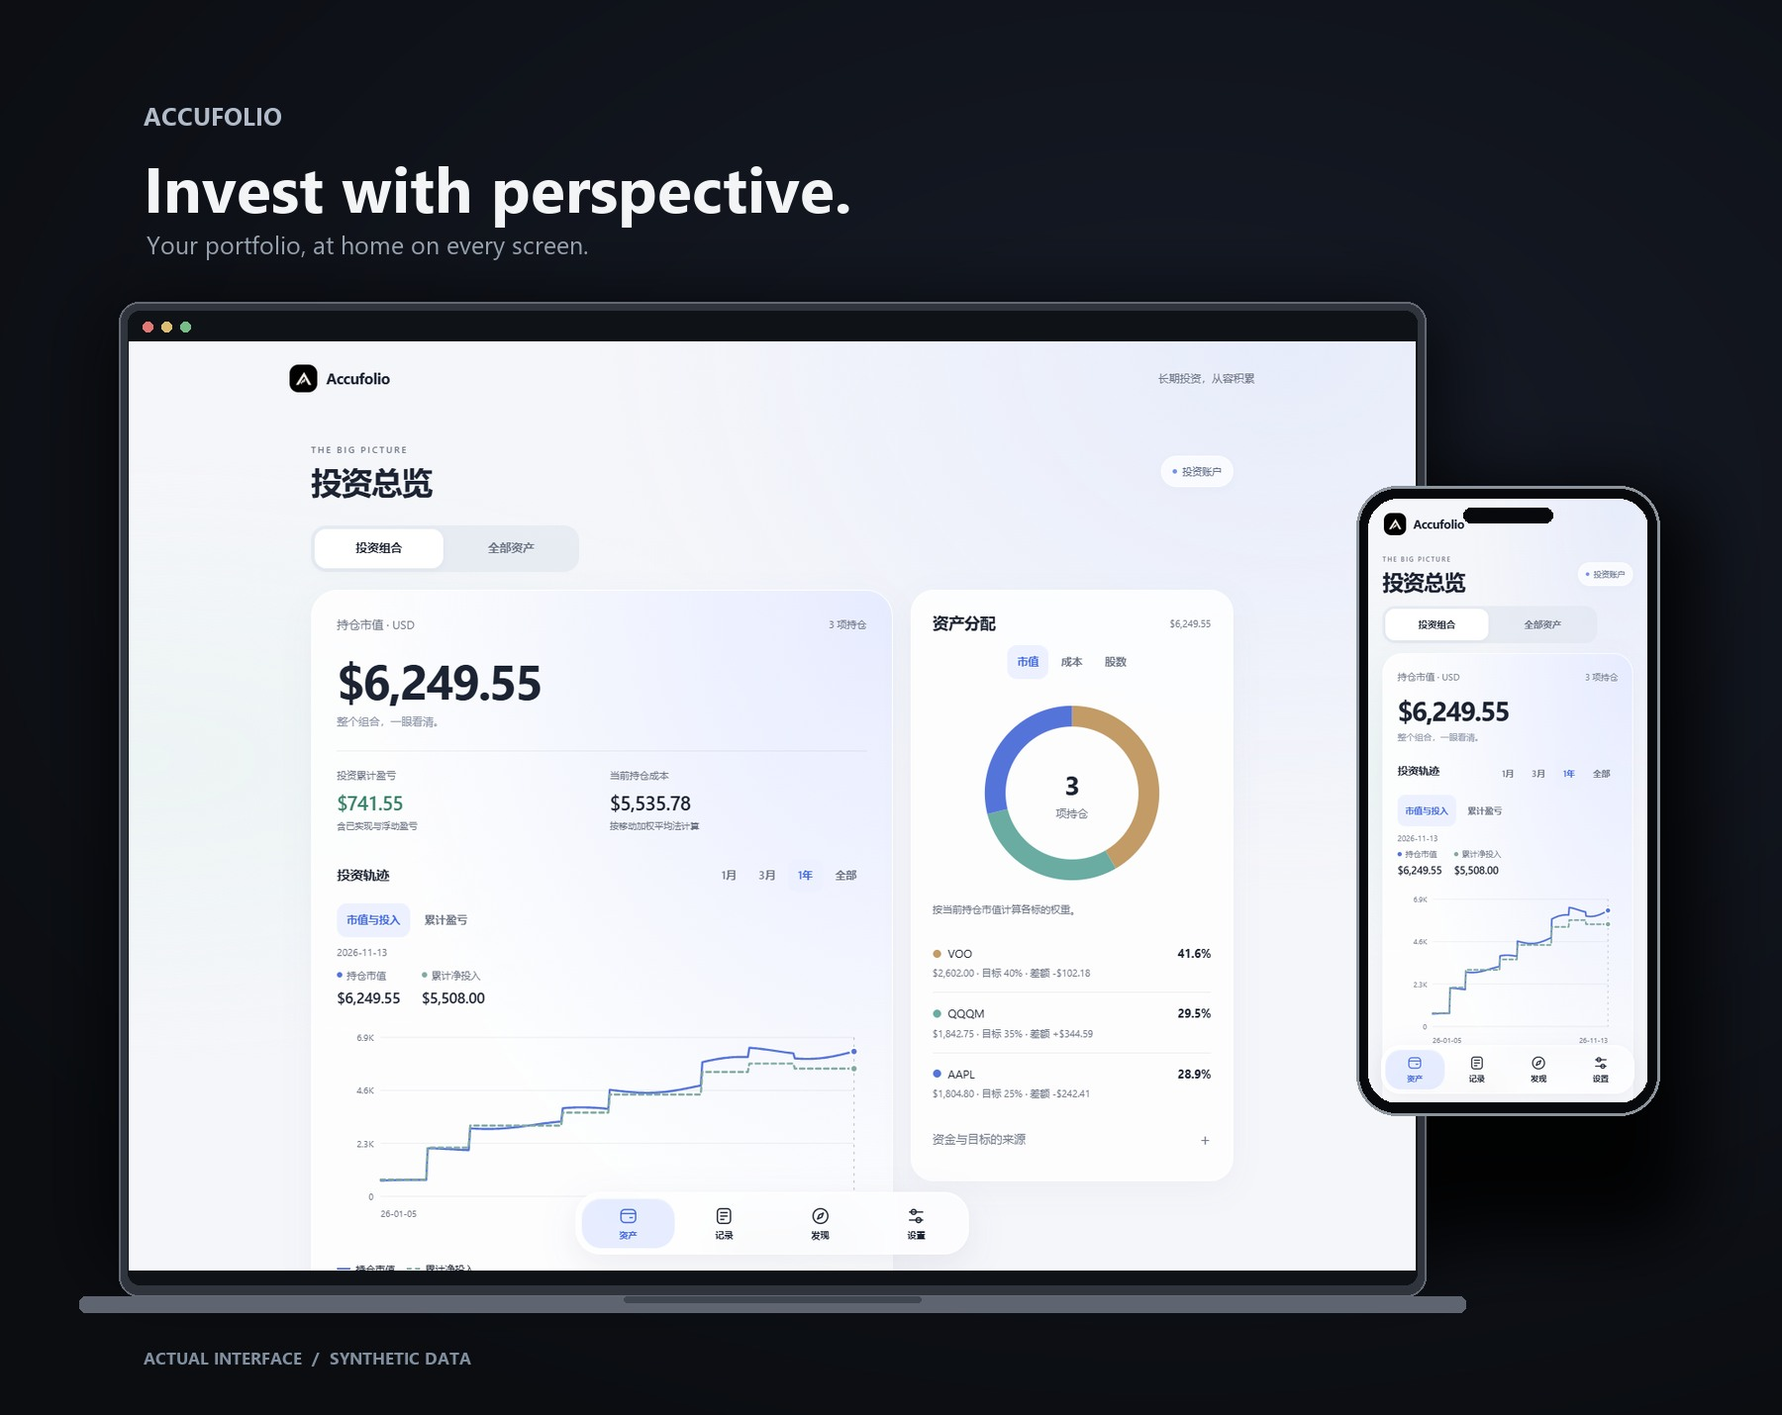
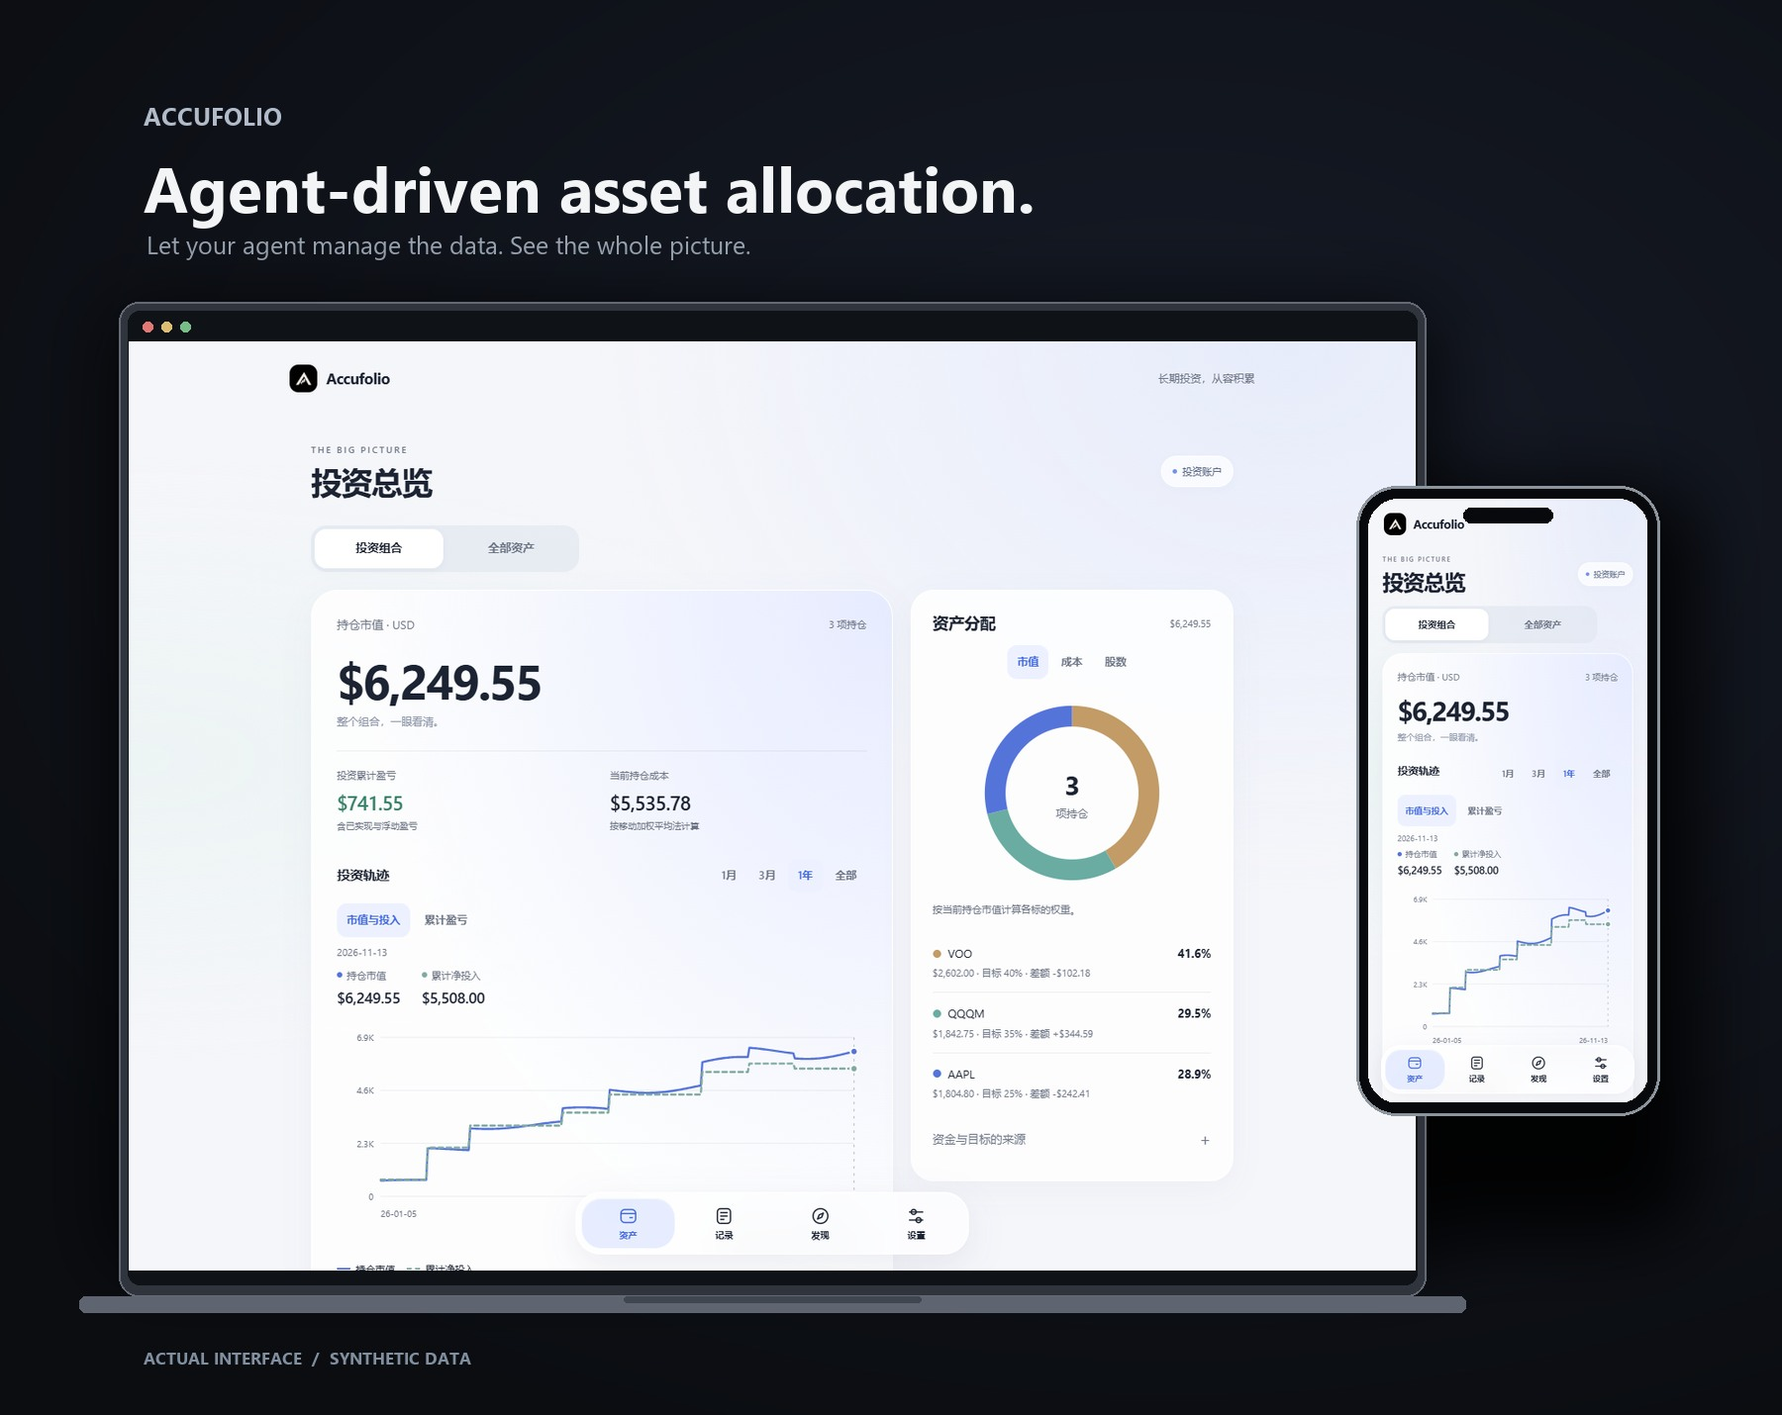
docs: position Accufolio as agent-driven asset allocation [skip ci]

Changed region(s): [[0.0622, 0.1231, 0.5911, 0.1846]]

diff --git a/scripts/create_poster.py b/scripts/create_poster.py
@@ -11,8 +11,8 @@ for y in range(h):
 d=ImageDraw.Draw(img)
 font='C:/Windows/Fonts/segoeui.ttf'; bold='C:/Windows/Fonts/segoeuib.ttf'
 d.text((145,100),'ACCUFOLIO',font=ImageFont.truetype(bold,25),fill='#b1bbca',stroke_width=0)
-d.text((145,145),'Invest with perspective.',font=ImageFont.truetype(bold,64),fill='#f2f4f6')
-d.text((148,230),'Your portfolio, at home on every screen.',font=ImageFont.truetype(font,25),fill='#9da8b5')
+d.text((145,145),'Agent-driven asset allocation.',font=ImageFont.truetype(bold,64),fill='#f2f4f6')
+d.text((148,230),'Let your agent manage the data. See the whole picture.',font=ImageFont.truetype(font,25),fill='#9da8b5')
 shadow=Image.new('RGBA',(w,h));sd=ImageDraw.Draw(shadow);sd.rounded_rectangle((112,310,1450,1282),radius=28,fill=(0,0,0,185));sd.rounded_rectangle((1370,495,1710,1250),radius=55,fill=(0,0,0,230));img=Image.alpha_composite(img.convert('RGBA'),shadow.filter(ImageFilter.GaussianBlur(36)));d=ImageDraw.Draw(img)
 # Laptop-like browser frame around an unmodified application screenshot.
 x,y=120,305; sw=1300; sh=round(sw*1040/1440); d.rounded_rectangle((x,y,x+sw+20,y+sh+66),radius=20,fill='#30353d',outline='#636a74',width=2);d.rounded_rectangle((x+9,y+9,x+sw+11,y+sh+54),radius=12,fill='#0f1217');d.rectangle((x+10,y+40,x+sw+10,y+40+sh),fill='#101217');

diff --git a/README.en.md b/README.en.md
@@ -1,26 +1,28 @@
 <div align="center">
   <img src="assets/logo.png" alt="Accufolio logo" width="112">
   <h1>Accufolio</h1>
-  <p><strong>Invest for the long term, one contribution at a time.</strong></p>
-  <p>A self-hosted investment dashboard, with data maintained by AI and a clear view of assets, allocation, and progress.</p>
+  <p><strong>Agent-driven asset allocation.</strong></p>
+  <p>A self-hosted dashboard. Let your agent maintain the data; see your allocation clearly.</p>
   <p>
     <a href="https://github.com/zuquanzhi/Accufolio/actions/workflows/ci.yml"><img src="https://github.com/zuquanzhi/Accufolio/actions/workflows/ci.yml/badge.svg" alt="Build and test status"></a>
     <a href="https://github.com/zuquanzhi/Accufolio/releases/latest"><img src="https://img.shields.io/github/v/release/zuquanzhi/Accufolio" alt="Latest release"></a>
     <a href="LICENSE"><img src="https://img.shields.io/badge/license-Apache--2.0-blue.svg" alt="Apache 2.0 license"></a>
   </p>
-  <p><a href="#quick-start">Quick start</a> · <a href="#mobile-access">Mobile access</a> · <a href="https://github.com/zuquanzhi/Accufolio/releases">Releases</a> · <a href="README.md">简体中文</a></p>
+  <p><a href="#how-it-works">How it works</a> · <a href="#quick-start">Quick start</a> · <a href="guides/使用与部署.md">Deployment & MCP guide</a> · <a href="https://github.com/zuquanzhi/Accufolio/releases">Releases</a> · <a href="README.md">简体中文</a></p>
 </div>
 
 ---
 
-Accufolio brings holdings across multiple securities, investment and profit curves, allocation targets, and strategy backtests into one dashboard. AI maintains transactions and allocation data through local MCP; the app provides a read-only view for analysis. Your data stays in your own SQLite database, accessible from a browser, a PWA, or the Android client.
+Accufolio is a single-user, self-hosted asset allocation dashboard. Give your agent completed transactions, dated fund balances, and allocation targets. The agent maintains those records through MCP; Accufolio turns them into holding breakdowns, target gaps, and historical curves.
+
+Asset and transaction data is read-only in Web, PWA, and Android, backed by your own SQLite database. Accufolio provides MCP tools and visualization. You choose and run the agent; the app does not include an AI model or a chat service.
 
 ## Preview
 
 ![Accufolio desktop and mobile preview](assets/previews/product-poster.jpg)
 
 <details>
-<summary>More views: backtesting, monitoring, mobile trades, and Android welcome screen</summary>
+<summary>More views: allocation, strategy curves, monitoring, and mobile access</summary>
 <br>
 <img src="assets/previews/mobile-pages.jpg" alt="Four app routes" width="1000">
 <img src="assets/previews/mobile-allocation.png" alt="Total assets allocation and target gaps" width="280">
@@ -33,23 +35,51 @@ Accufolio brings holdings across multiple securities, investment and profit curv
 
 The device frames are illustrative; the screenshots show the running application with synthetic transactions and prices in an isolated database. The mobile images show the responsive web interface; the Android client displays the same interface after connecting to a server; the welcome screen is captured on an Android 15 emulator.
 
-## Features
+## Allocation at a glance
 
-- **Portfolio overview:** aggregate market value, remaining cost, realized and unrealized gains, net investment, and XIRR across securities. View allocation by market value, cost, or share count.
-- **Historical perspective:** explore holdings value, cumulative net investment, and cumulative profit over one month, three months, one year, or all records. Read individual dates using touch or keyboard controls.
-- **Two allocation views:** the investment portfolio covers stock holdings; total assets add an independently reported other-funds balance and its as-of date. Compare market-value weights with separate allocation targets.
-- **Strategy comparisons:** fetch cached daily prices and compare four strategy curves against cumulative contributions. Manual price input remains available; source and adjustment details are visible.
-- **Price monitoring:** L1/L2/L3 movement alerts and a calm signal based on aligned stock and VIX closes. Missing or stale signal data is explicitly skipped.
-- **External alerts:** optional JSON Webhooks with a persistent outbox, retries, and delivery status.
-- **AI-maintained data:** MCP tools manage buys, sells, other funds, and targets. Write access requires explicit configuration and supports previews, audit history, and retry-safe changes.
-- **Multiple devices:** access the same dashboard from desktop browsers, a PWA, or Android. Database backups and JSON exports are available; older on-device records remain available for read-only viewing and export.
+- **Agent-maintained assets:** update buys, sells, other funds, and targets through MCP. Trade creation, editing, deletion, and allocation replacement support previews, explicit write permissions, audit history, and retry protection.
+- **Current distribution:** aggregate market value, cost, realized and unrealized gains, net investment, and XIRR. Explore holdings by market value, remaining cost, or share count.
+- **Target comparison:** maintain separate targets for the investment portfolio and total assets. See current market-value weights and monetary gaps.
+- **Long-term perspective:** switch periods on holdings-value, net-investment, and cumulative-profit curves. Touch and keyboard controls expose individual dates; missing observations remain gaps.
+- **Strategy comparisons:** fetch cached daily prices and compare four contribution strategies against a cumulative-investment baseline, with expandable ending results.
+- **Ongoing monitoring:** L1/L2/L3 movement alerts, a calm signal based on stock and VIX closes, and optional Webhook delivery with retries.
 
-## What the numbers mean
+## How it works
+
+```text
+Your transactions, balances, and targets
+                 │
+                 ▼
+       Your agent / MCP client
+                 │ Local stdio · permission-controlled access
+                 ▼
+          Accufolio MCP ──→ SQLite database
+                                  │
+     Quotes & daily prices ──→ FastAPI analytics + Web
+                                  │ HTTPS
+                                  ▼
+                         Web · PWA · Android
+                     Read-only assets and records
+```
+
+The agent reads existing records and configuration before preparing changes. Trade creation, editing, deletion, and allocation replacement default to `dry_run=true`. Submitting these operations requires `ACCUFOLIO_MCP_SCOPE=write` on the MCP process and `dry_run=false`. Allocation updates also check the current revision to avoid overwriting a newer change.
+
+Once MCP is connected, you can give your agent completed transactions, balance reports, and targets like these:
+
+> Record a completed trade: I bought 2 shares of QQQM on 2026-11-12 at 280 USD per share. Show me a preview before committing.
+
+> My other-funds balance was 5,000 USD as of 2026-11-14. Read the current allocation plan, preserve both target sets and its note, and preview a replacement of only the balance and date.
+
+> Preview these targets: QQQM 60% and SPY 40% for my investment portfolio; QQQM 45%, SPY 30%, and other funds 25% for total assets. Preserve the reported balance, date, and note, then wait for confirmation before committing.
+
+Balances come from information you provide and must be explicitly updated by the agent. Buys and sells never automatically change other funds; salary, spending, and transfers require a fresh balance report. MCP currently runs over **local stdio with access to the same database**, not a remote MCP endpoint. The phone connects to the Web service. See the [MCP setup guide](guides/使用与部署.md#mcp-接入) for configuration (Chinese).
+
+## Views and calculations
 
 | View | Data and purpose |
 |---|---|
 | **Investment portfolio** | Current stock holdings, weighted by market value, remaining cost, or share count. Share weights compare quantities, not capital allocation. |
-| **Total assets** | Current stock market value plus an independently reported other-funds balance, with its as-of date. Cash is never inferred from trades. |
+| **Total assets** | Current stock market value plus an independently reported USD other-funds balance, with its as-of date. An unreported balance is unknown, not zero. |
 | **Allocation targets** | Separate targets for the portfolio and total assets. Gaps use market value only; they do not create or execute orders. |
 | **History** | Stock holdings reconstructed from transactions and unadjusted closing prices. Missing values remain gaps; today's other-funds balance is not inserted into history. This is not account NAV. |
 
@@ -57,7 +87,7 @@ Net investment equals cumulative purchases minus sale proceeds. Cumulative profi
 
 ## Quick start
 
-Install [Docker and Docker Compose](https://docs.docker.com/get-docker/), then run:
+Deploy the dashboard, then connect an agent that can access the same database. Start the service with [Docker and Docker Compose](https://docs.docker.com/get-docker/):
 
 ```bash
 git clone https://github.com/zuquanzhi/Accufolio.git
@@ -67,19 +97,15 @@ cp .env.example .env
 docker compose up -d --build
 ```
 
-Visit <http://127.0.0.1:8000> and sign in with username `admin` and the password you set. There is no default password. The container binds to localhost by default and stores the database in a Docker volume.
+Visit <http://127.0.0.1:8000> and sign in with username `admin` and the password you set. There is no default password or seeded portfolio. The container binds to localhost by default and stores the database in a Docker volume.
 
-Python 3.11–3.13 is also supported. For remote access, put the service behind HTTPS. The repository includes an optional Caddy configuration: set `ACCUFOLIO_DOMAIN` in `.env`, point DNS to your server, open ports 80 and 443, then run:
+Next, follow the [MCP setup guide](guides/使用与部署.md#mcp-接入) to launch `scripts/mcp_server.py` from your MCP client. Its `ACCUFOLIO_DB` must point to the same database used by the Web service. Docker deployments need an accessible shared database path for the local MCP process; pointing it at another empty database will not connect it to your dashboard. Start with read-only tools and enable write scope when you are ready to submit asset data.
 
-```bash
-docker compose -f compose.yml -f compose.https.yml up -d --build
-```
-
-The [deployment and usage guide](guides/使用与部署.md) contains environment variables, backup and restore, MCP configuration, and backtest details (currently in Chinese).
+Ask the agent to read `get_dashboard` and `get_allocation_plan`, then preview your first records using the information you provide. Web and mobile will read the updated dashboard. Python 3.11–3.13 deployment, HTTPS, backups, and upgrades are covered in the [usage guide](guides/使用与部署.md).
 
 ## Mobile access
 
-Four routes organize the app: `/assets`, `/records`, `/discover`, and `/settings`. In-app navigation keeps the document and connection alive, preserving scroll position and analysis parameters. Each route also supports direct loading and refresh. Data-source selection, refresh, and Android connection/update controls live in Settings. Asset and transaction data is read-only in the interface and maintained through MCP. Older on-device records remain viewable and exportable, with no editing or upload.
+Assets, Records, Discover, and Settings switch instantly while preserving scroll position and analysis parameters. Asset and transaction records are read-only. Connection, refresh, and update controls live in Settings.
 
 
 | Option | Requirements | Getting started |
@@ -89,24 +115,15 @@ Four routes organize the app: `/assets`, `/records`, `/discover`, and `/settings
 
 Both options require a deployed server; the APK does not include the backend. After the server is updated, web changes are detected and loaded automatically, with a prompt when there is unsaved input. From v1.2.0, the Android app can check, download and verify updates in-app, then request system installation confirmation. Upgrading from an older version requires installing the new APK once. The release source ZIP is for deployment and development, not an Android installer. SHA-256 checksum files are provided with release assets.
 
-## How it works
+## Your data, your storage
 
-```text
-Browser / PWA / Android client
-              │ HTTPS
-              ▼
-       FastAPI + web interface ── quote provider
-              │
-        SQLite database and backups
-              ▲
-       Local MCP client (optional)
-```
+The server provides daily and manual SQLite backups and JSON trade exports. The Web service uses HTTP Basic authentication and requires HTTPS for remote access. MCP inherits database access from the local process running it; the Web password does not replace operating-system permissions.
 
-The application uses HTTP Basic authentication. Use HTTPS for remote access and protect your password and database backups. MCP runs as a local process and is read-only by default; write access must be explicitly enabled. Older device-local records stay in the current browser origin; they are not uploaded or included in server backups. Export them before clearing browser data or uninstalling the app. The server is still required to load the interface; independent offline startup is not supported.
+Older on-device records remain on their original device and browser origin, available for viewing and export only. They are not uploaded, merged into the investment portfolio, or included in server backups. Export them before clearing browser data or uninstalling the app. The server is still required to load the interface; independent offline startup is not supported.
 
 ## Scope and limitations
 
-The current release focuses on a single-user, USD investment dashboard. It does not connect to a broker or place orders. Dividends, fees, multiple currencies, broker sync, and remote MCP are not supported. Other funds are a reported balance snapshot, not a complete cash ledger. Sina daily closes are unadjusted: splits can distort historical curves and backtests, and dividends are not reinvested. Stale data is visibly flagged. Webhooks use generic JSON and require a compatible receiver or adapter; set `ACCUFOLIO_WEBHOOK_URL` and optionally `ACCUFOLIO_WEBHOOK_TOKEN` in the deployment environment. Quotes may be delayed or unavailable; historical results do not guarantee future returns. Planned work and exclusions are tracked in the [roadmap](guides/roadmap.md).
+The current release focuses on single-user asset allocation in USD. It does not connect to a broker or place orders. Dividends, fees, multiple currencies, and broker sync are not supported. Other funds are a reported balance snapshot, not a complete cash ledger. Sina daily closes are unadjusted: splits can distort historical curves and backtests, and dividends are not reinvested. Stale data is visibly flagged. Webhooks use generic JSON and require a compatible receiver or adapter; configuration is covered in the [guide](guides/使用与部署.md#webhook-告警). Quotes may be delayed or unavailable; historical results do not guarantee future returns. Planned work and exclusions are tracked in the [roadmap](guides/roadmap.md).
 
 ## Development
 

diff --git a/CHANGELOG.md b/CHANGELOG.md
@@ -1,5 +1,7 @@
 # Accufolio v1.5.0 — 看清组合与全部资产
 
+Accufolio 现定位为 **Agent 驱动的资产配置看板**：Agent 通过 MCP 维护资产记录与配置目标，应用只读展示投资组合、全部资产及历史表现。
+
 - 首页升级为多标的投资看板：持仓市值、成本、累计与已实现盈亏、资金加权年化，以及每月投入节奏。
 - 新增交互式投资轨迹，支持市值/净投入、累计盈亏和四个时间范围；回测显示四种策略曲线与累计投入基线。
 - 资产配置展示市值、持仓成本和股数占比；“投资组合”与“全部资产”可切换，后者包含 Agent 提供的其他资金余额。

diff --git a/RELEASE_NOTES.md b/RELEASE_NOTES.md
@@ -1,5 +1,7 @@
 # Accufolio v1.5.0 — 看清组合与全部资产
 
+Accufolio 现定位为 **Agent 驱动的资产配置看板**：Agent 通过 MCP 维护资产记录与配置目标，应用只读展示投资组合、全部资产及历史表现。
+
 - 首页升级为多标的投资看板：持仓市值、成本、累计与已实现盈亏、资金加权年化，以及每月投入节奏。
 - 新增交互式投资轨迹，支持市值/净投入、累计盈亏和四个时间范围；回测显示四种策略曲线与累计投入基线。
 - 资产配置展示市值、持仓成本和股数占比；“投资组合”与“全部资产”可切换，后者包含 Agent 提供的其他资金余额。

diff --git a/guides/使用与部署.md b/guides/使用与部署.md
@@ -2,6 +2,8 @@
 
 [返回首页](../README.md)
 
+Accufolio 是 Agent 驱动的资产配置看板：你向自己的 Agent 提供资产操作、余额与目标，Agent 通过本地 MCP 维护数据，Web 和手机负责只读展示组合、趋势与配置差额。应用不内置 AI 模型；部署完成后，还需按下文连接 MCP，才能让 Agent 更新投资账户。
+
 ## 快速开始
 
 需要 Python 3.11–3.13。建议使用独立虚拟环境。
